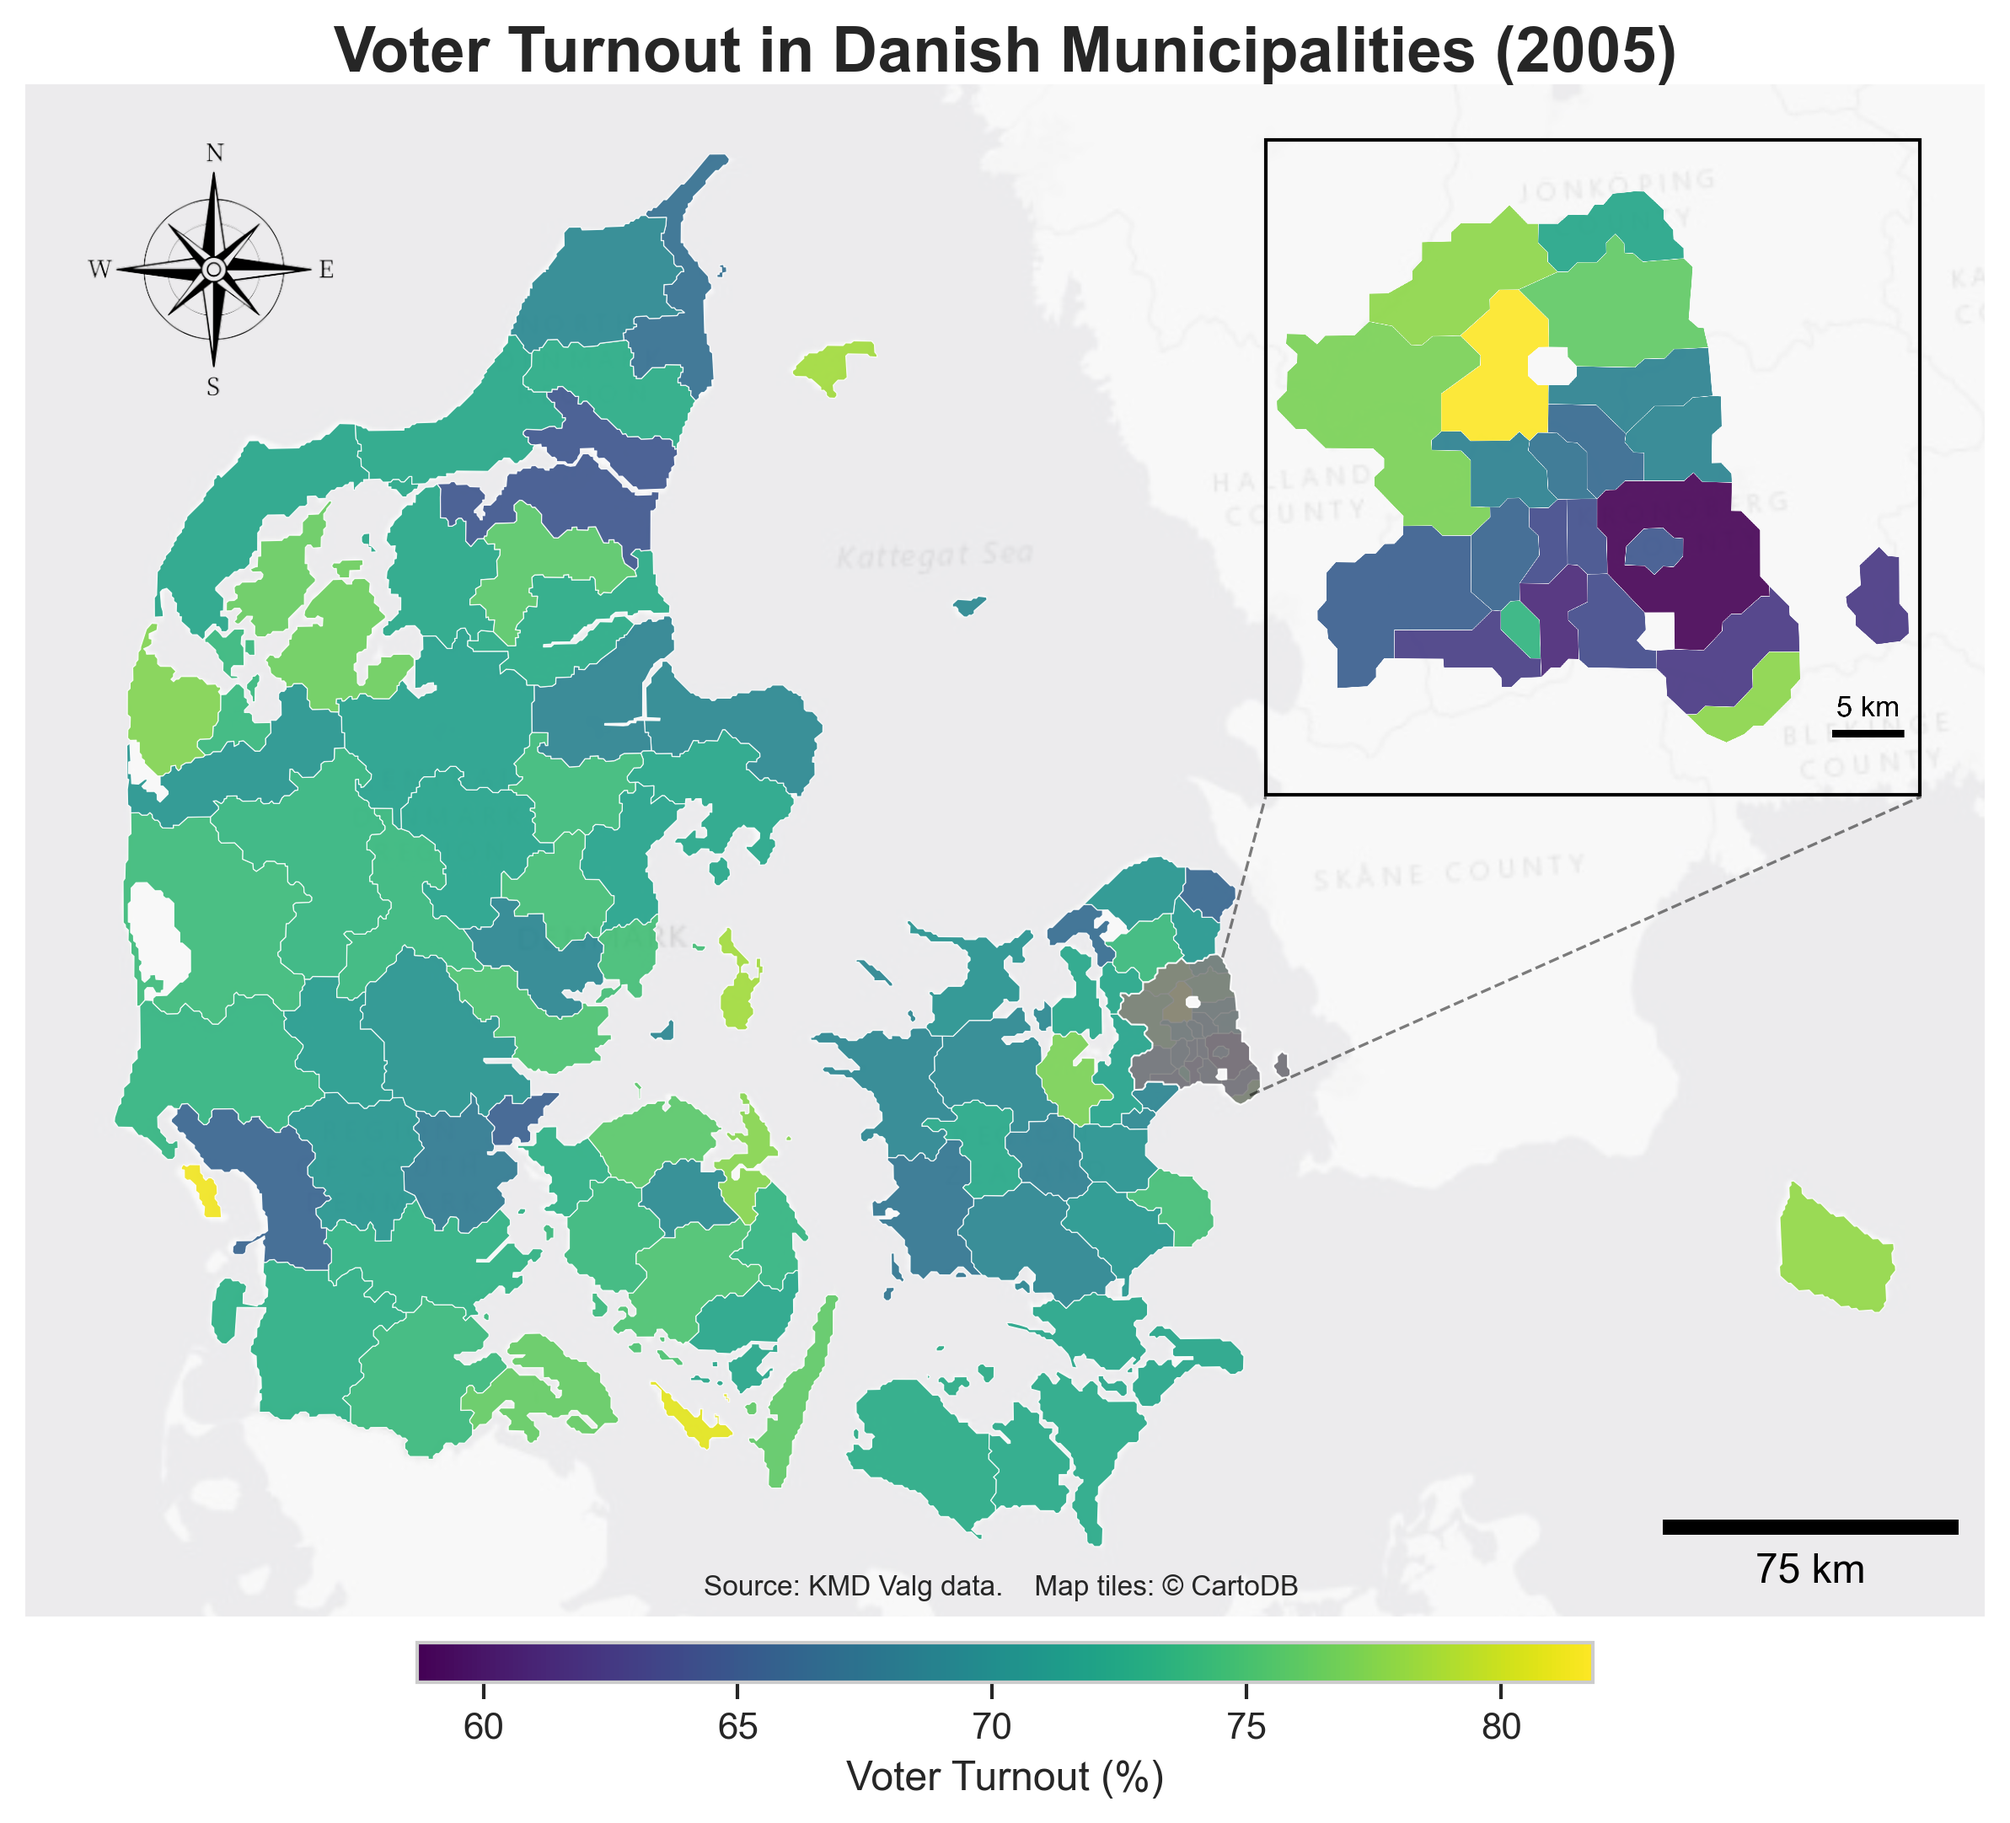
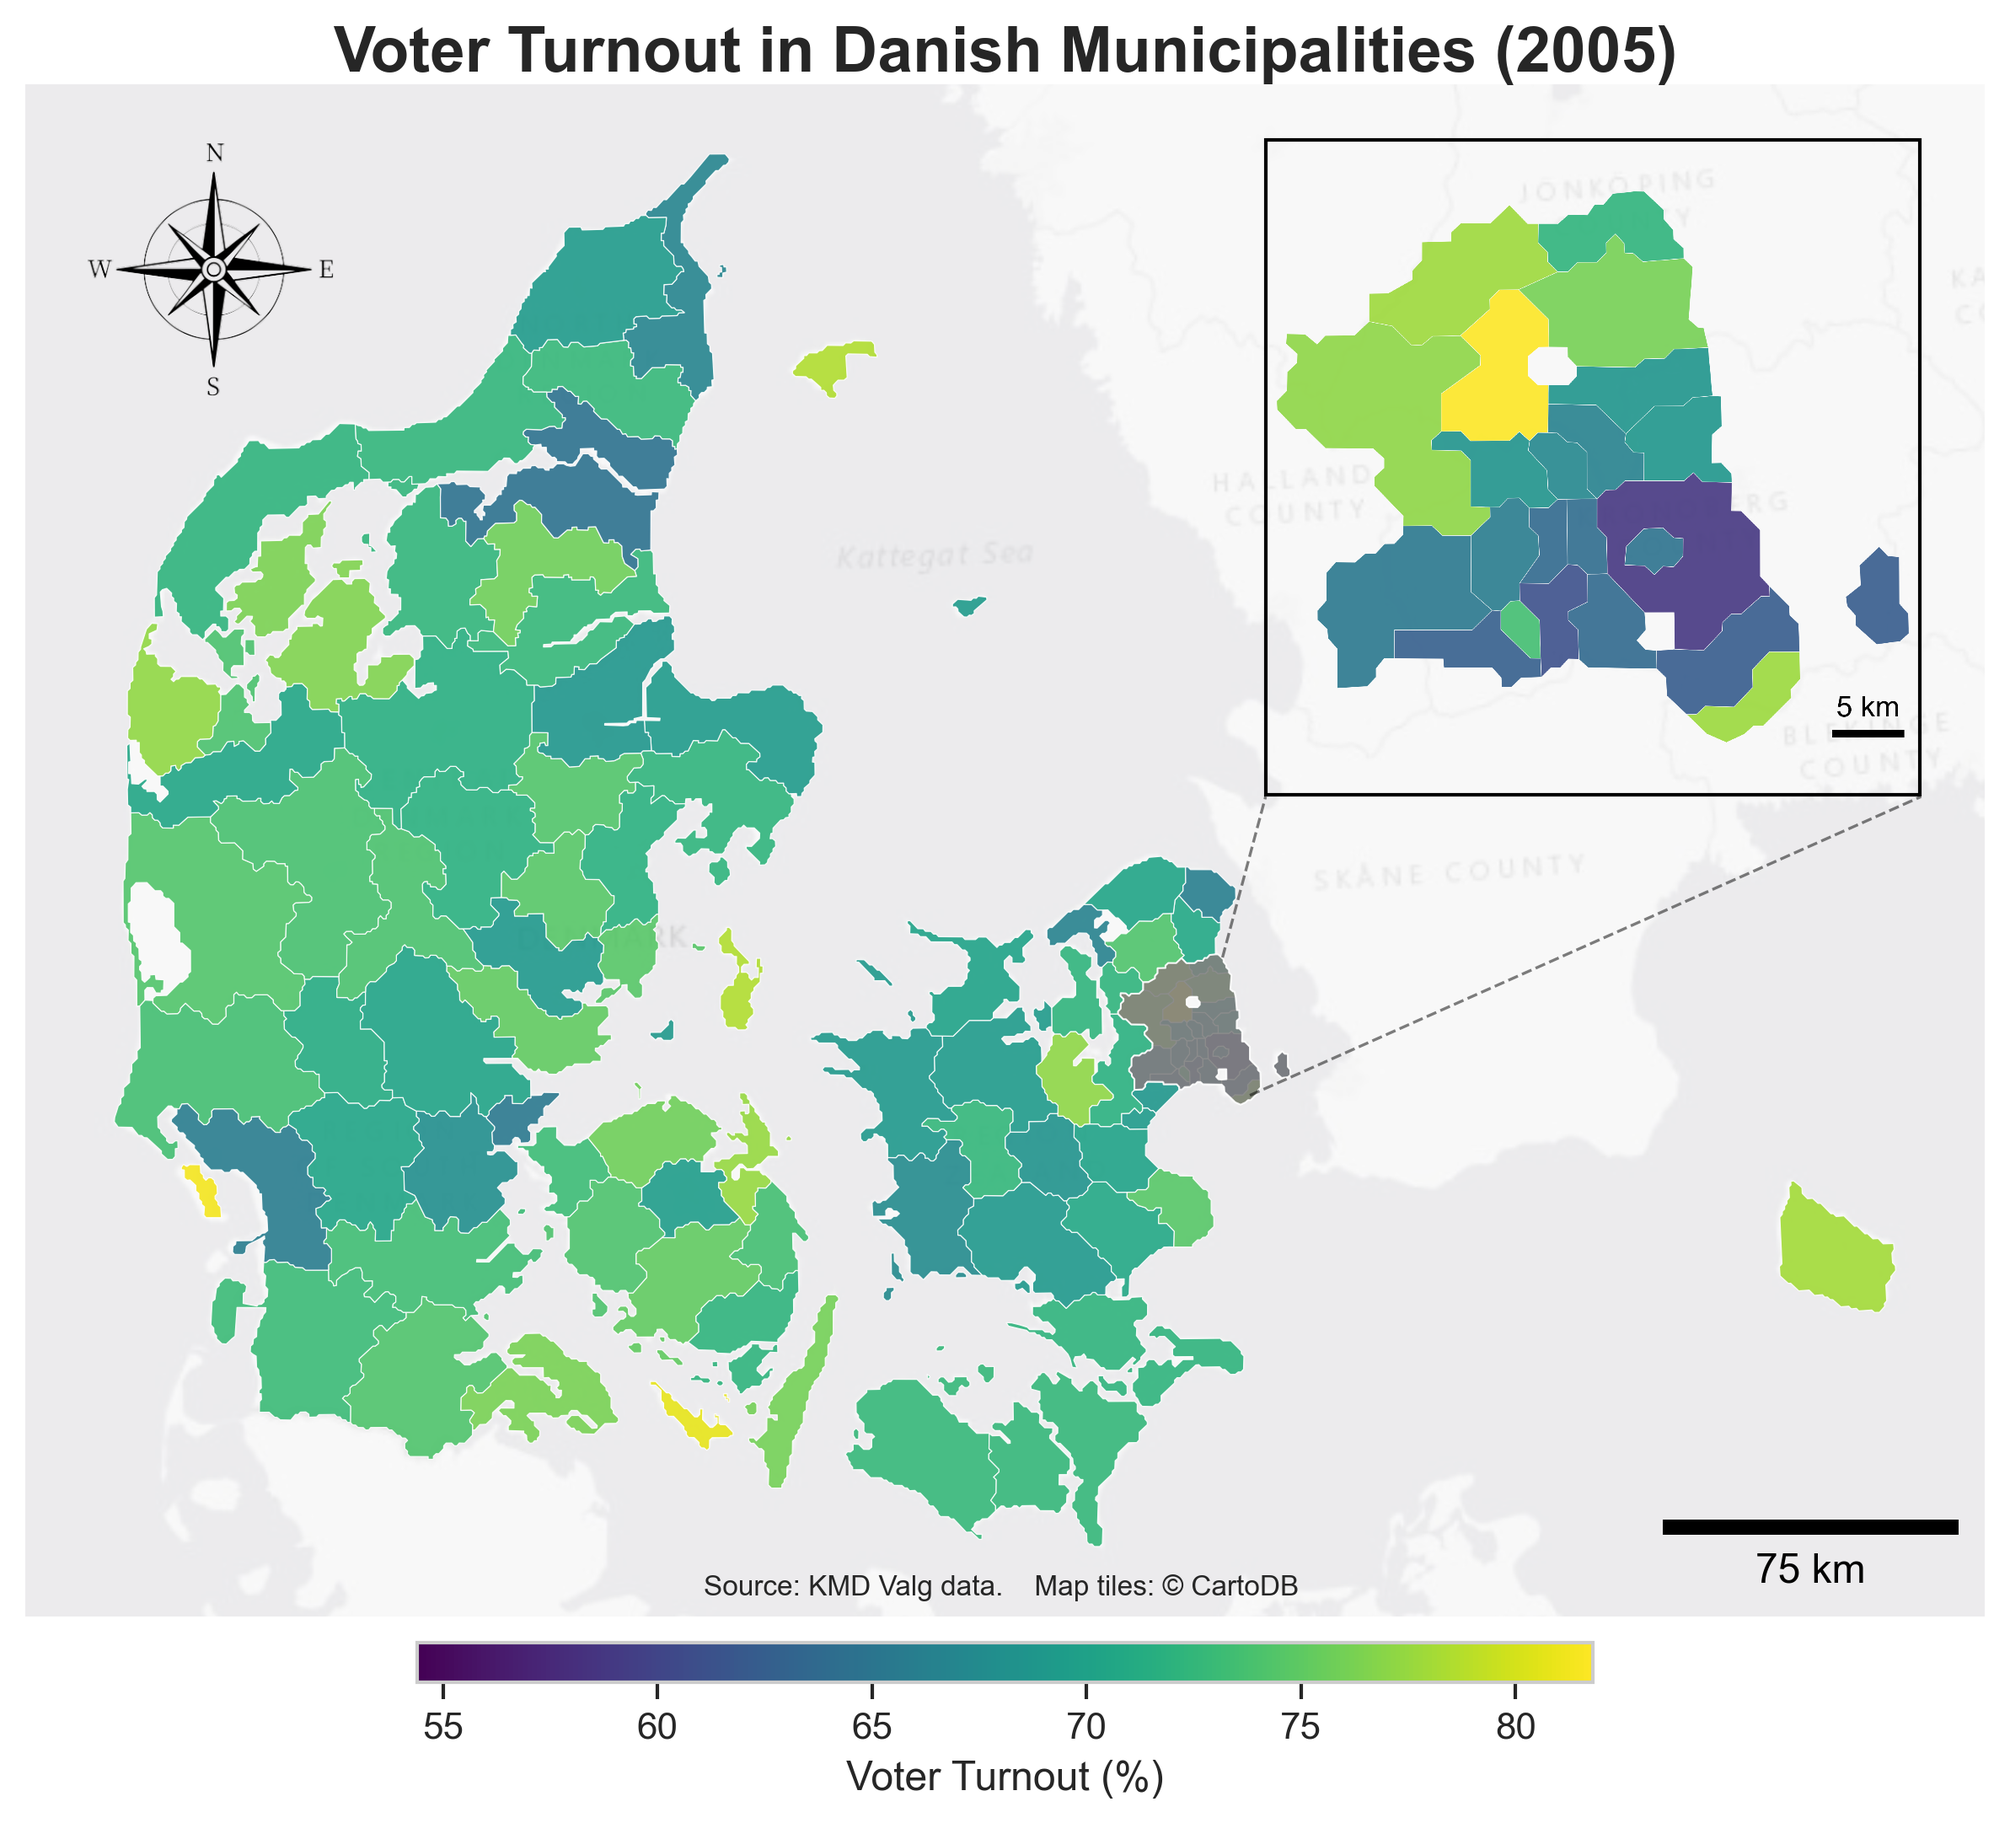
bug: fixed color scale for turnout maps (fixed across election years)

diff --git a/src/services/visualizer.py b/src/services/visualizer.py
@@ -172,9 +172,20 @@ class Visualizer:
         Args:
             year: The election year (2005 or 2009)
         """
-        # Prepare spatial data
+        # Prepare spatial data for both years to calculate a consistent scale
         spatial_2005, spatial_2009 = self.data_analyzer.prepare_spatial_data()
 
+        # Calculate global min and max for consistent coloring across both years
+        global_min = min(
+            spatial_2005["stemmeprocent_election"].min(),
+            spatial_2009["stemmeprocent_election"].min(),
+        )
+        global_max = max(
+            spatial_2005["stemmeprocent_election"].max(),
+            spatial_2009["stemmeprocent_election"].max(),
+        )
+
+        # Select the data for the requested year
         if year == 2005:
             spatial_data = spatial_2005
         elif year == 2009:
@@ -189,9 +200,9 @@ class Visualizer:
         fig, ax = plt.subplots(1, 1, figsize=(10, 12), dpi=300)
         fig.subplots_adjust(top=0.99)  # Move subplot closer to top
 
-        # Get data range for consistent coloring
-        vmin = spatial_data_web["stemmeprocent_election"].min()
-        vmax = spatial_data_web["stemmeprocent_election"].max()
+        # Use global min/max for consistent coloring across years
+        vmin = global_min
+        vmax = global_max
 
         # Plot the data
         spatial_data_web.plot(
